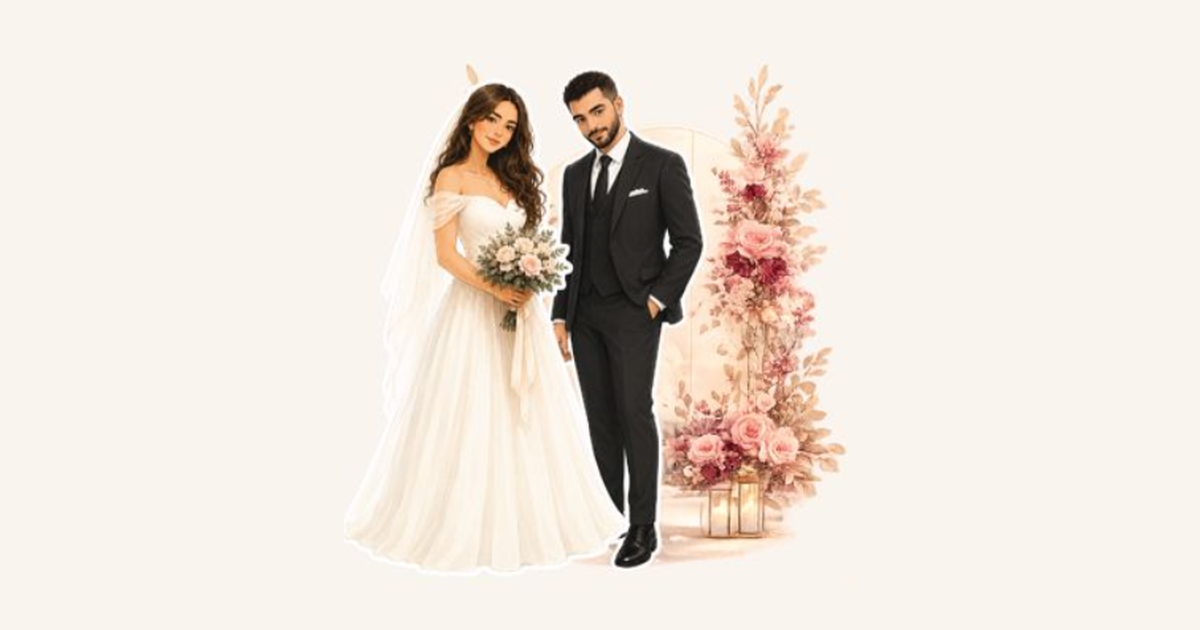
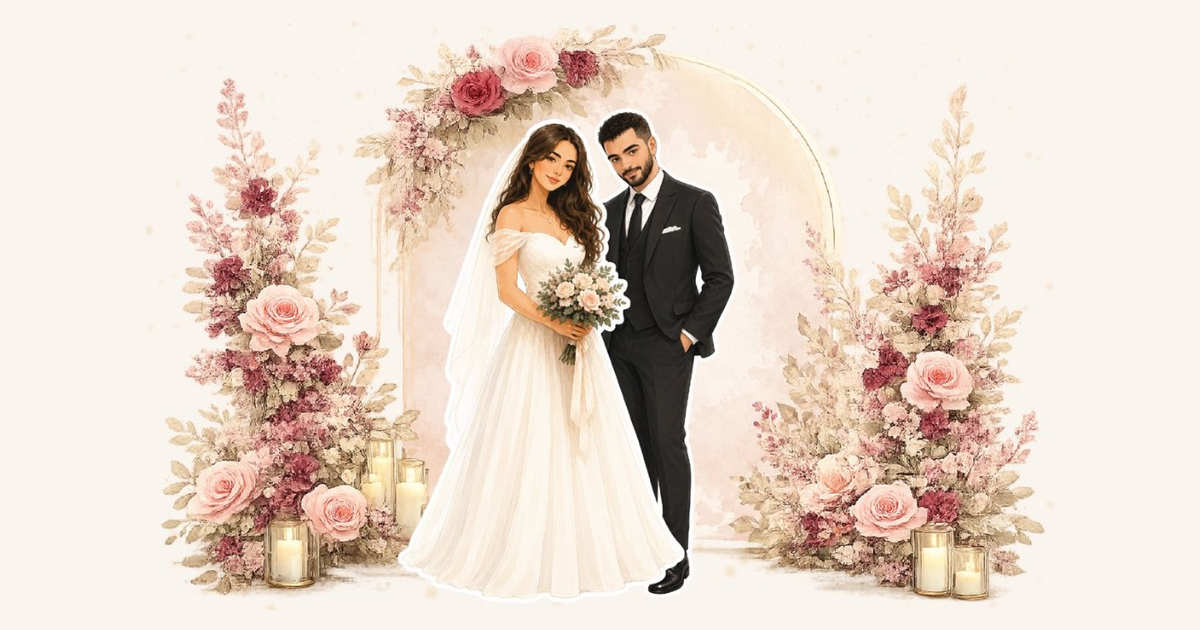
Swap OG thumbnail to the floral arch couple illustration.

diff --git a/index.html b/index.html
@@ -14,7 +14,7 @@
       content="Join us on 30 September 2026 · Choose Arabic or English invitation"
     />
     <meta property="og:url" content="https://project-2zfzh.vercel.app/" />
-    <meta property="og:image" content="https://project-2zfzh.vercel.app/assets/og-invite.png?v=2" />
+    <meta property="og:image" content="https://project-2zfzh.vercel.app/assets/og-invite.png?v=3" />
     <meta property="og:image:width" content="1200" />
     <meta property="og:image:height" content="630" />
     <meta name="twitter:card" content="summary_large_image" />
@@ -23,7 +23,7 @@
       name="twitter:description"
       content="Join us on 30 September 2026 · Choose Arabic or English invitation"
     />
-    <meta name="twitter:image" content="https://project-2zfzh.vercel.app/assets/og-invite.png?v=2" />
+    <meta name="twitter:image" content="https://project-2zfzh.vercel.app/assets/og-invite.png?v=3" />
     <link rel="preconnect" href="https://fonts.googleapis.com" />
     <link rel="preconnect" href="https://fonts.gstatic.com" crossorigin />
     <link

diff --git a/en.html b/en.html
@@ -18,7 +18,7 @@
       content="Join us on 30 September 2026 · La Terrace, JW Marriott, Cairo"
     />
     <meta property="og:url" content="https://project-2zfzh.vercel.app/en.html" />
-    <meta property="og:image" content="https://project-2zfzh.vercel.app/assets/og-invite.png?v=2" />
+    <meta property="og:image" content="https://project-2zfzh.vercel.app/assets/og-invite.png?v=3" />
     <meta property="og:image:width" content="1200" />
     <meta property="og:image:height" content="630" />
     <meta name="twitter:card" content="summary_large_image" />
@@ -27,7 +27,7 @@
       name="twitter:description"
       content="Join us on 30 September 2026 · La Terrace, JW Marriott, Cairo"
     />
-    <meta name="twitter:image" content="https://project-2zfzh.vercel.app/assets/og-invite.png?v=2" />
+    <meta name="twitter:image" content="https://project-2zfzh.vercel.app/assets/og-invite.png?v=3" />
     <link rel="preconnect" href="https://fonts.googleapis.com" />
     <link rel="preconnect" href="https://fonts.gstatic.com" crossorigin />
     <link

diff --git a/ar.html b/ar.html
@@ -14,7 +14,7 @@
       content="٣٠ سبتمبر ٢٠٢٦ · La Terrace, JW Marriott, Cairo"
     />
     <meta property="og:url" content="https://project-2zfzh.vercel.app/ar.html" />
-    <meta property="og:image" content="https://project-2zfzh.vercel.app/assets/og-invite.png?v=2" />
+    <meta property="og:image" content="https://project-2zfzh.vercel.app/assets/og-invite.png?v=3" />
     <meta property="og:image:width" content="1200" />
     <meta property="og:image:height" content="630" />
     <meta name="twitter:card" content="summary_large_image" />
@@ -23,7 +23,7 @@
       name="twitter:description"
       content="٣٠ سبتمبر ٢٠٢٦ · La Terrace, JW Marriott, Cairo"
     />
-    <meta name="twitter:image" content="https://project-2zfzh.vercel.app/assets/og-invite.png?v=2" />
+    <meta name="twitter:image" content="https://project-2zfzh.vercel.app/assets/og-invite.png?v=3" />
     <link rel="preconnect" href="https://fonts.googleapis.com" />
     <link rel="preconnect" href="https://fonts.gstatic.com" crossorigin />
     <link

diff --git a/special/TEMPLATE.html b/special/TEMPLATE.html
@@ -41,9 +41,9 @@
       property="og:description"
       content="Join us on 30 September 2026 · La Terrace, JW Marriott, Cairo"
     />
-    <meta property="og:image" content="https://project-2zfzh.vercel.app/assets/og-invite.png?v=2" />
+    <meta property="og:image" content="https://project-2zfzh.vercel.app/assets/og-invite.png?v=3" />
     <meta name="twitter:card" content="summary_large_image" />
-    <meta name="twitter:image" content="https://project-2zfzh.vercel.app/assets/og-invite.png?v=2" />
+    <meta name="twitter:image" content="https://project-2zfzh.vercel.app/assets/og-invite.png?v=3" />
     <link rel="preconnect" href="https://fonts.googleapis.com" />
     <link rel="preconnect" href="https://fonts.gstatic.com" crossorigin />
     <link

diff --git a/special/vip-x7k9m2.html b/special/vip-x7k9m2.html
@@ -30,9 +30,9 @@
       property="og:description"
       content="Join us on 30 September 2026 · La Terrace, JW Marriott, Cairo"
     />
-    <meta property="og:image" content="https://project-2zfzh.vercel.app/assets/og-invite.png?v=2" />
+    <meta property="og:image" content="https://project-2zfzh.vercel.app/assets/og-invite.png?v=3" />
     <meta name="twitter:card" content="summary_large_image" />
-    <meta name="twitter:image" content="https://project-2zfzh.vercel.app/assets/og-invite.png?v=2" />
+    <meta name="twitter:image" content="https://project-2zfzh.vercel.app/assets/og-invite.png?v=3" />
     <link rel="preconnect" href="https://fonts.googleapis.com" />
     <link rel="preconnect" href="https://fonts.gstatic.com" crossorigin />
     <link
